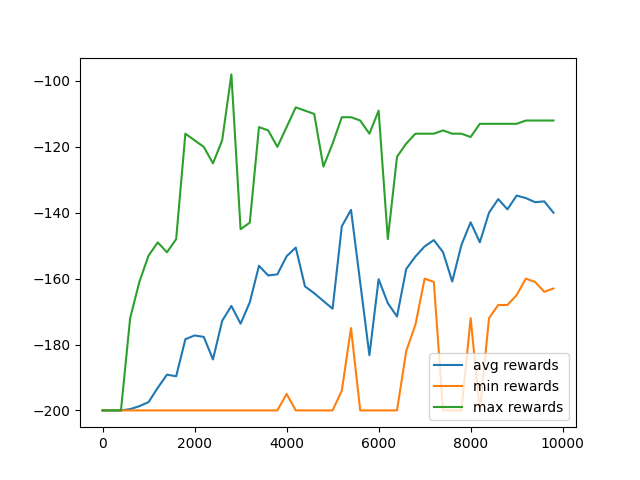
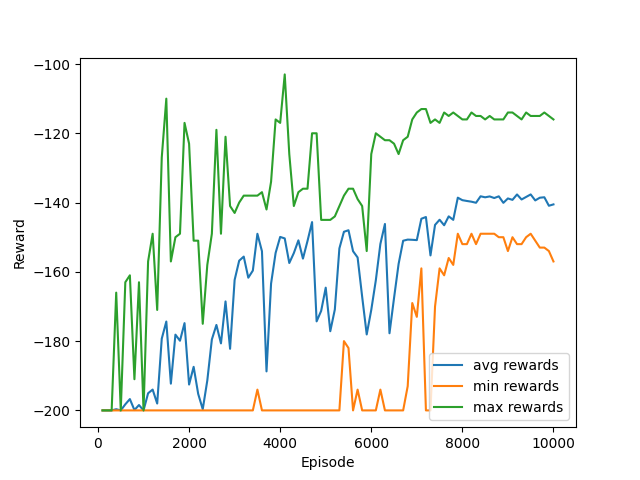
Range changed to 1, EPISODE + 1; Model created for 10000 EPISODEs.

diff --git a/main.py b/main.py
@@ -29,15 +29,20 @@ env = gym.make("MountainCar-v0")
 
 lr = 0.1
 DISCOUNT = 0.95
-EPISODES = 50000
+EPISODES = 20000
 
-SHOW_EVERY = 200
+STATS_EVERY = 100
+SHOW_EVERY = 5000
 SAVE_MODEL_EACH = 100
 
 USE_EPSILON_DECAY = True
 epsilon = 0.5
 START_EPSILON_DECAYING = 1
 END_EPSILON_DECAYING = EPISODES // 2
+
+model_name = f'LR: {lr} - DISCOUNT: {DISCOUNT} -' \
+            f' EPISODES: {EPISODES} - Use epsilon Decay: {USE_EPSILON_DECAY} -' \
+            f' EPSILON: {epsilon}'
 
 epsilon_decaying_value = epsilon // (END_EPSILON_DECAYING - START_EPSILON_DECAYING)
 
@@ -49,10 +54,9 @@ def get_discrete_state(state):
 
 if __name__ == '__main__':
     """
-    Clear the q-table directory history.
+    Creates new directory in ./q_tables/
     """
-    shutil.rmtree('./q_tables')
-    os.mkdir('./q_tables')
+    os.mkdir(f'./q_tables/{model_name}')
 
     """
     Initializing the Q_Table, A 20 by 20 matrix with depth of env.action_space.n (In this case 3)
@@ -75,12 +79,8 @@ if __name__ == '__main__':
     Iterating over EPISODES to optimize the Q_table by using 'Bellman equation'
     as a simple value iteration update.
     """
-    for episode in range(EPISODES):
+    for episode in range(1, EPISODES + 1):
         episode_reward = 0
-        if episode % SHOW_EVERY == 0:
-            render = True
-        else:
-            render = False
 
         discrete_state = get_discrete_state(env.reset())
 
@@ -91,13 +91,13 @@ if __name__ == '__main__':
             new_state, reward, done, _ = env.step(action)
             episode_reward += reward
             new_discrete_state = get_discrete_state(new_state)
-            if render:
+
+            if episode % SHOW_EVERY == 0:
                 """
                 # TODO: Uncomment below to capture frames.
                 """
                 # frames.append(env.render(mode="rgb_array"))
                 env.render()
-
                 """Feel free to change the sleep time if the car is too slow or too fast for you."""
                 time.sleep(0.02)
 
@@ -119,10 +119,10 @@ if __name__ == '__main__':
         Capturing the episode's activity for further tracking and model selection.
         """
         ep_rewards.append(episode_reward)
-        if not episode % SHOW_EVERY:
-            average_reward = sum(ep_rewards[-SHOW_EVERY:]) / len(ep_rewards[-SHOW_EVERY:])
-            min_reward = min(ep_rewards[-SHOW_EVERY:])
-            max_reward = max(ep_rewards[-SHOW_EVERY:])
+        if not episode % STATS_EVERY:
+            average_reward = sum(ep_rewards[-STATS_EVERY:]) / STATS_EVERY
+            min_reward = min(ep_rewards[-STATS_EVERY:])
+            max_reward = max(ep_rewards[-STATS_EVERY:])
 
             aggr_ep_rewards['ep'].append(episode)
             aggr_ep_rewards['avg'].append(average_reward)
@@ -134,8 +134,8 @@ if __name__ == '__main__':
         """
         Saving Q-Tables for each SHOW_EVERY
         """
-        if episode % SAVE_MODEL_EACH:
-            np.save(f'./q_tables/{episode}-qtable.npy', q_table)
+        if episode % SAVE_MODEL_EACH == 0:
+            np.save(f'./q_tables/{model_name}/{episode}-qtable.npy', q_table)
     """
     Uncomment to save the frames as gif.
     """
@@ -145,11 +145,7 @@ if __name__ == '__main__':
     """
     Let's plot the captured episodic activities.
     """
-    plt_path = f'./plots/LR: {lr} - DISCOUNT: {DISCOUNT} -' \
-               f' EPISODES: {EPISODES} - Use epsilon Decay: {USE_EPSILON_DECAY} -' \
-               f' EPSILON: {epsilon}.png'
-    if os.path.exists(plt_path):
-        plt_path.split('.')[0] += '_NEW'
+    plt_path = f'{model_name}.png'
 
     plt.plot(aggr_ep_rewards.get('ep'), aggr_ep_rewards.get('avg'), label="avg rewards")
     plt.plot(aggr_ep_rewards.get('ep'), aggr_ep_rewards.get('min'), label="min rewards")
